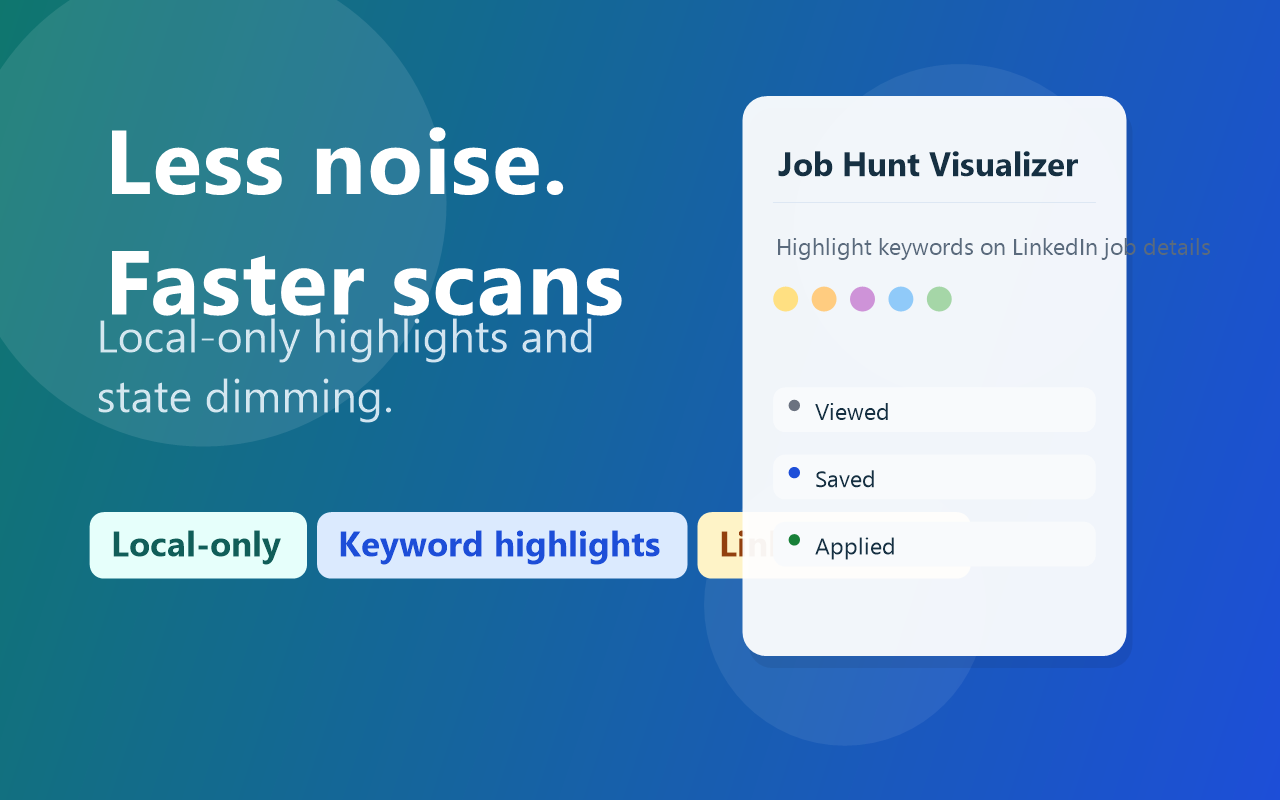
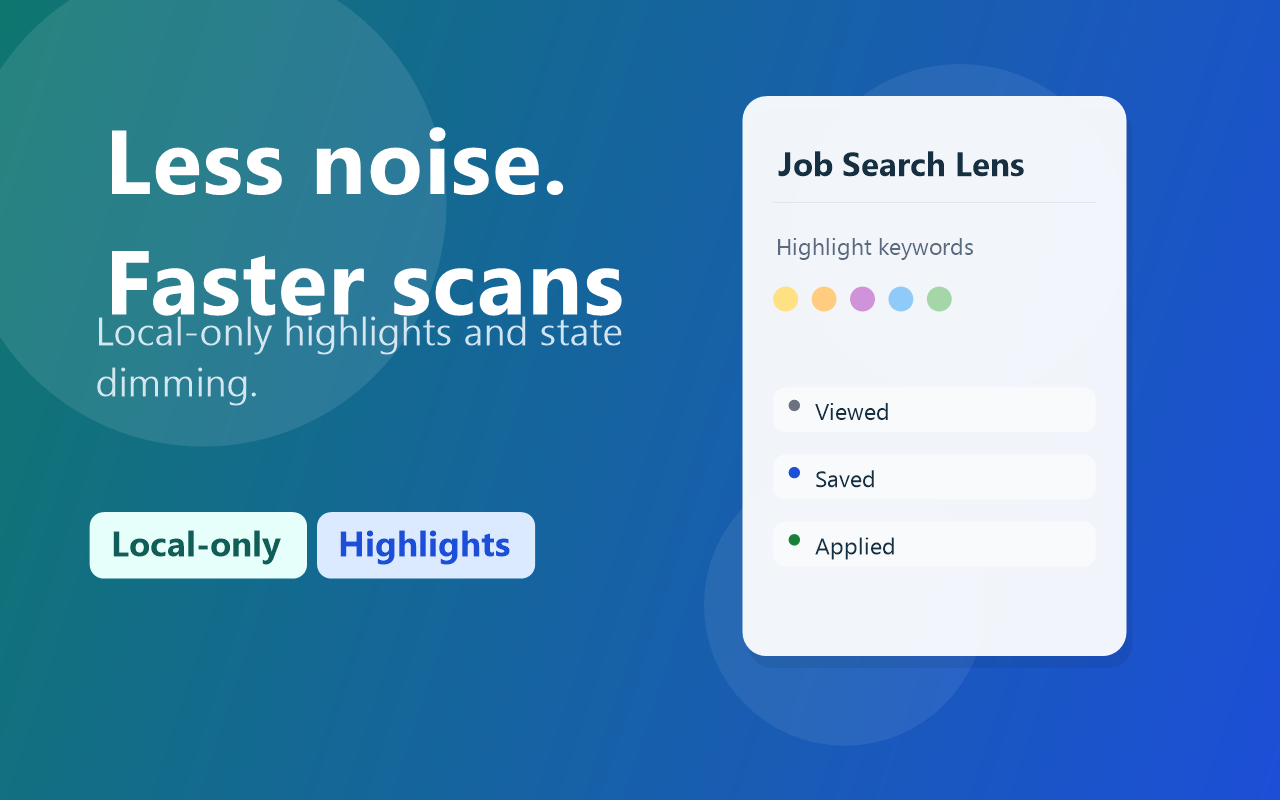
chore: refresh store assets for Job Search Lens

diff --git a/docs/style.css b/docs/style.css
@@ -1,4 +1,4 @@
-/* Job Hunt Visualizer — docs/style.css */
+/* Job Search Lens - docs/style.css */
 *, *::before, *::after { box-sizing: border-box; margin: 0; padding: 0; }
 
 :root {